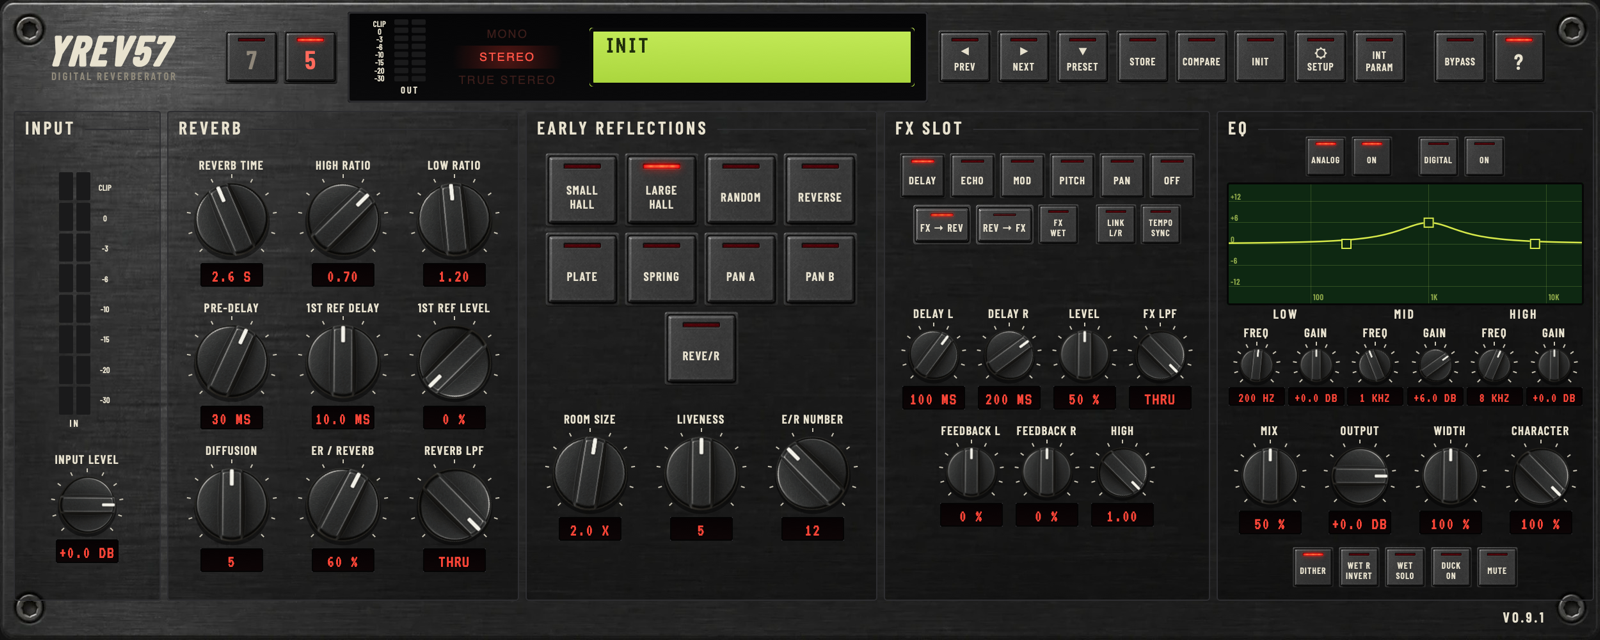
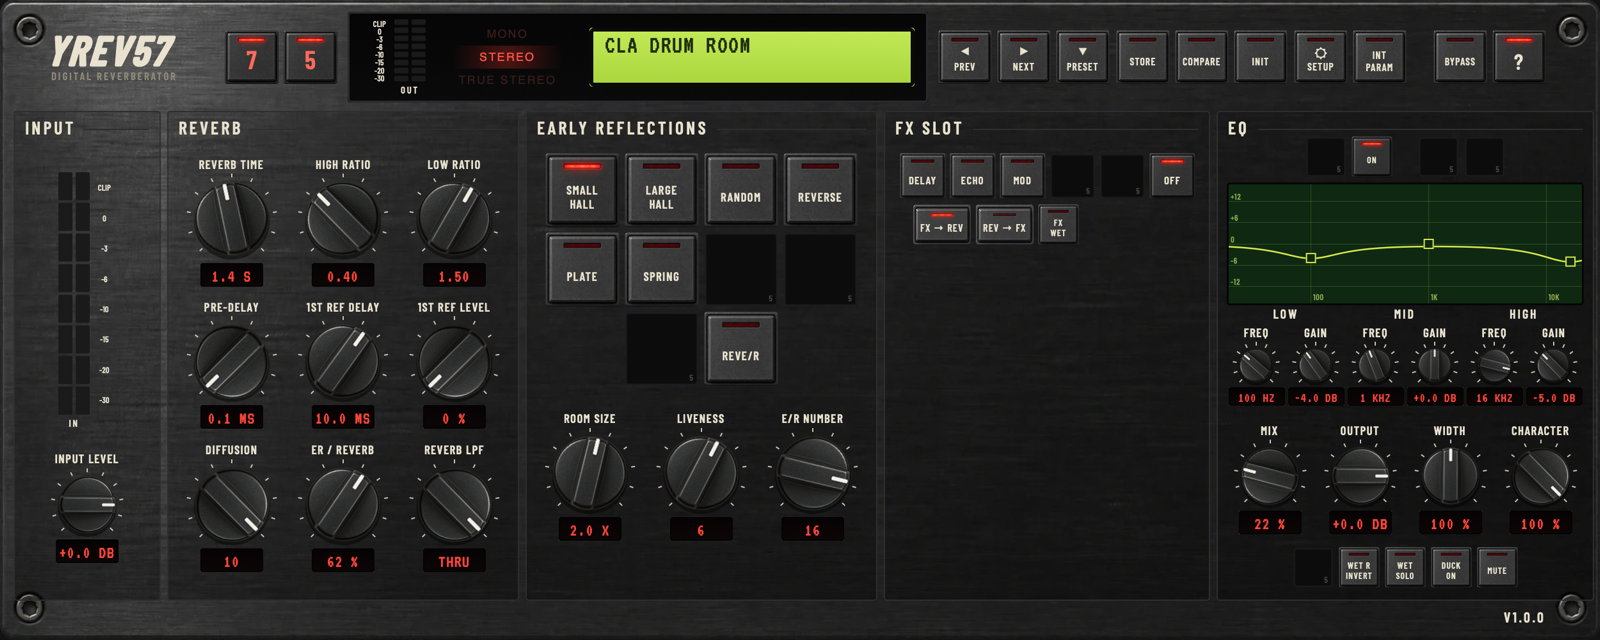
README: 1.0 screenshot with the secret preset; tip moved up
The top image shows 1.0 with CLA Drum Room loaded (both era keys lit), and
the secret-preset tip follows the opening summary. The editor snapshot test
writes shot-cla.png for it.

diff --git a/tests/EditorTests.cpp b/tests/EditorTests.cpp
@@ -124,6 +124,14 @@ TEST_CASE ("write editor snapshots", "[.snapshot]")
         os.truncate ();
         png.writeImageToStream (ed->createComponentSnapshot (ed->getLocalBounds (), true, 1.0f), os);
     }
+    // CLA mode: the SECRET bank's preset loaded, so the editor opens with both era keys lit (the README teaser)
+    {
+        YrevProcessor pc;
+        for (int i = 0; i < pc.presets.size (); ++i)
+            if (pc.presets.at (i).bank == "SECRET")
+                pc.presets.load (i);
+        save (pc, "shot-cla.png");
+    }
     // the browser on the REV7 and REV5 manual-program banks (opens on the loaded preset's bank)
     for (const auto& [bank, pick] : {std::pair{"REV7", "Reverse Gate"}, std::pair{"REV5", "PC & Rev & G"}})
     {

diff --git a/README.md b/README.md
@@ -4,13 +4,15 @@
 [![License](https://img.shields.io/badge/License-AGPLv3-blue.svg)](https://opensource.org/license/agpl-v3)
 [![Downloads](https://img.shields.io/github/downloads/tehguitarist/YREV57/total)](https://somsubhra.github.io/github-release-stats/?username=tehguitarist&repository=YREV57&page=1&per_page=30)
 
-![YREV57 in 1987 (REV5) mode](docs/images/yrev57.png)
+![YREV57 1.0 with its secret preset loaded](docs/images/yrev57.png)
 
 **A free, open-source digital reverb.** YREV57 is inspired by two mid-1980s Yamaha digital reverbs, the REV7 (1985) and the
 REV5 (1987). Both were 16-bit machines with a mono-summed wet path, and much of their character came from the converters
 and filters around the reverb as well as the reverb itself. YREV57 models that converter chain and runs our own
 delay and all-pass reverb engine inside it. An **era switch** (7 or 5) is the main character control. It runs as AU, VST3, LV2 (Linux)
 and Standalone.
+
+> **Tip:** shift-click the era key that isn't lit. There's a secret preset hiding behind it.
 
 > YREV57 is an independent product, inspired by the Yamaha REV7 and REV5. It is not affiliated with, endorsed by or
 > sponsored by Yamaha Corporation. Yamaha, REV7 and REV5 are trademarks of Yamaha Corporation, used here only to describe
@@ -77,8 +79,6 @@ reset it, or click a value readout to type a number. Hover over any control for 
 A new instance starts on INIT: mix 50 %, input and output at 0 dB, width 100 %, character 100 %. The
 panel is resizable, and the Setup key opens the settings (quality, wet input default, noise seed, era settings, output
 safety limiter, UI scale).
-
-> **Tip:** shift-click the era key that isn't lit. There's a secret preset hiding behind it.
 
 The user manual in the repository (docs/manual.md) describes each control.
 
